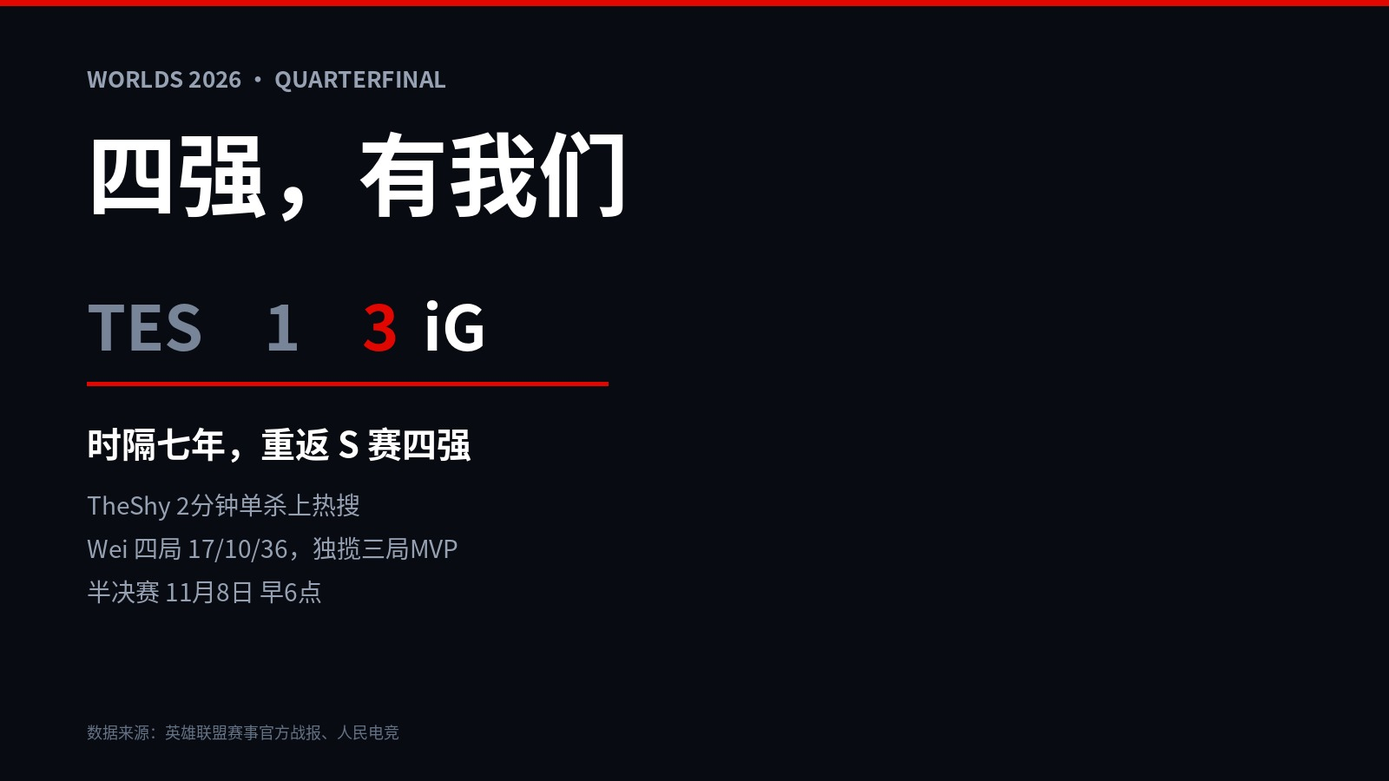
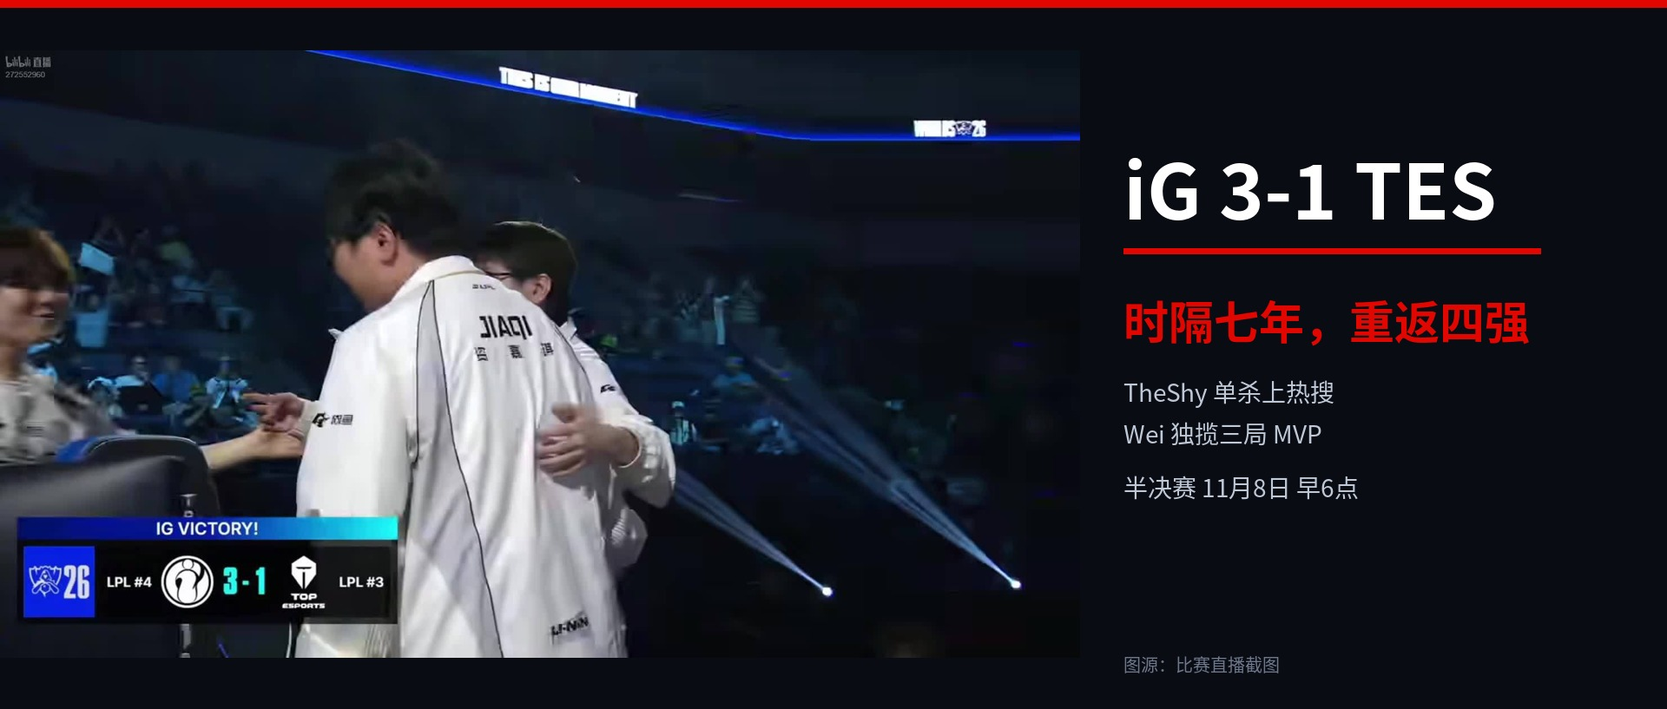
feat: update workspace

diff --git a/ig-semis/index.html b/ig-semis/index.html
@@ -158,14 +158,14 @@
 <!-- DATA SCHEMA BEGIN -->
 <script id="post-data" type="application/json">
 {
-  "title": "TheShy单杀上热搜，但把iG抬进四强的是他",
+  "title": "水晶炸了，TheShy没庆祝，先走向了TES选手席",
   "account": "TraeWork",
   "account_sub": "",
   "author": "TraeWork",
-  "date": "2026年11月4日 12:03",
+  "date": "2026年11月4日 12:21",
   "location": "北京",
   "is_original": true,
-  "body_html": "<img src=\"assets/cover.jpg\" alt=\"iG 3-1 TES\" style=\"max-width:100%;height:auto;display:block;margin:0 auto 10px;border-radius:8px;\">\n<p style=\"text-align:center;font-size:12px;color:#999;margin:0 0 26px;\">▲ S16 八强战报。数据来源：英雄联盟赛事官方</p>\n\n<p style=\"font-size:15px;color:#333;line-height:1.9;margin:0 0 16px;\">早上6点的闹钟，iG 替你按掉了 snooze 键。</p>\n\n<p style=\"font-size:15px;color:#333;line-height:1.9;margin:0 0 16px;\">3-1，TES 被送回家，iG 成为 S16 第一支打进四强的队伍。上一次他们站在这个位置，是 2019 年——七年了。</p>\n\n<p style=\"font-size:15px;color:#333;line-height:1.9;margin:0 0 16px;\">赛后的热搜很直白：<strong>#TheShy单杀369#</strong>。但这场球真正的发动机，另有其人。</p>\n\n<p style=\"text-align:center;font-size:52px;font-weight:900;color:#1a1a1a;letter-spacing:3px;line-height:1;margin:50px 0 0;\">01</p>\n<p style=\"text-align:center;font-size:21px;font-weight:bold;color:#333;margin:10px 0 26px;\">四局棋，三种赢法</p>\n\n<img src=\"assets/timeline.jpg\" alt=\"四局复盘\" style=\"max-width:100%;height:auto;display:block;margin:0 auto 10px;border-radius:8px;\">\n<p style=\"text-align:center;font-size:12px;color:#999;margin:0 0 24px;\">▲ 逐局战报。来源：英雄联盟赛事官方</p>\n\n<p style=\"font-size:15px;color:#333;line-height:1.9;margin:0 0 16px;\">第一局是 TheShy 的局。2 分钟，纳尔上路单杀安蓓萨拿一血，热搜就是这一刀砍出来的。15 分钟野区团战，JiaQi 的卡莎三杀，IG 打出 2换5；24 分钟 Rookie 辛德拉再拿三杀，比赛 30 分钟就没了悬念。</p>\n\n<p style=\"font-size:15px;color:#333;line-height:1.9;margin:0 0 16px;\">第二局是 369 的局。48 分钟的鏖战，TheShy 掏出上单薇恩但团战哑火，对面鳄鱼一夫当关，末期 1打3 还杀了两口。TES 扳平，那一瞬间 TES 粉丝是真的能看到希望的。</p>\n\n<p style=\"font-size:15px;color:#333;line-height:1.9;margin:0 0 16px;\">第三局和第四局，是 Wei 的局。杰斯游中帮 Rookie 的安妮拿一血，23 分钟再控大龙；赛点局纳亚菲利顶住一小时长暂停后的 nerves，一波结束。四局里 iG 赢下的三局，每一局的节奏都在他手里。</p>\n\n<p style=\"text-align:center;font-size:52px;font-weight:900;color:#1a1a1a;letter-spacing:3px;line-height:1;margin:50px 0 0;\">02</p>\n<p style=\"text-align:center;font-size:21px;font-weight:bold;color:#333;margin:10px 0 26px;\">发动机叫 Wei</p>\n\n<p style=\"font-size:15px;color:#333;line-height:1.9;margin:0 0 16px;\">先报数据：四局合砍 <strong>17 / 10 / 36</strong>，英文流直接把系列赛 POM（单场最佳）给了他。</p>\n\n<p style=\"font-size:15px;color:#333;line-height:1.9;margin:0 0 16px;\">再看含金量：四局比赛，<strong style=\"color:#e10600;\">Wei 一个打野拿了三局的 MVP</strong>。第一局控图，第三局杰斯提速，第四局纳亚菲利收尾——369 被单杀是热搜，但决定这个系列赛走向的，是中路河道之间那个来无影去无踪的身影。</p>\n\n<p style=\"font-size:15px;color:#333;line-height:1.9;margin:0 0 16px;\">说句可能得罪人的话：TheShy 的单杀负责上热搜，Wei 的杰斯负责赢比赛。这分工，iG 粉丝应该很熟悉——2018 年那支冠军队伍，也是这么分工的。</p>\n\n<p style=\"text-align:center;font-size:52px;font-weight:900;color:#1a1a1a;letter-spacing:3px;line-height:1;margin:50px 0 0;\">03</p>\n<p style=\"text-align:center;font-size:21px;font-weight:bold;color:#333;margin:10px 0 26px;\">TheShy：敢掏薇恩，也敢认错</p>\n\n<img src=\"assets/theshy.jpg\" alt=\"iG上单TheShy\" style=\"max-width:100%;height:auto;display:block;margin:0 auto 10px;border-radius:8px;\">\n<p style=\"text-align:center;font-size:12px;color:#999;margin:0 0 24px;\">▲ iG 上单 TheShy。图源：Liquipedia 选手资料图</p>\n\n<p style=\"font-size:15px;color:#333;line-height:1.9;margin:0 0 16px;\">赛后采访，TheShy 解释为什么掏薇恩：「369 选手是比较团队型的上单，英雄池偏向坦克，所以我选了把 VN。」</p>\n\n<p style=\"font-size:15px;color:#333;line-height:1.9;margin:0 0 16px;\">同一句采访里，他也一点没躲：「发条来上路那波我失误了，导致队伍落后。」</p>\n\n<p style=\"font-size:15px;color:#333;line-height:1.9;margin:0 0 16px;\">第二局薇恩哑火，第四局接着掏。被 369 的鳄鱼教做人之后，敢在赛点局把同一个英雄再拿出来——这份心里素质，比单杀本身更值钱。毕竟全世界的上单都在等他老，他已经把 S8 之后所有说\"廉颇老矣\"的稿子，全都撕了。</p>\n\n<p style=\"text-align:center;font-size:52px;font-weight:900;color:#1a1a1a;letter-spacing:3px;line-height:1;margin:50px 0 0;\">04</p>\n<p style=\"text-align:center;font-size:21px;font-weight:bold;color:#333;margin:10px 0 26px;\">七年之约，兑现了</p>\n\n<p style=\"font-size:15px;color:#333;line-height:1.9;margin:0 0 16px;\">2565 天前，iG 上一次出现在 S 赛淘汰赛，还是瑞士轮回归的那个赛季；上一场四强，则要追溯到 2019 年。</p>\n\n<p style=\"font-size:15px;color:#333;line-height:1.9;margin:0 0 16px;\">这七年间发生过什么，老观众都清楚。重组、沉底、被人写进\"隐退名单\"。这届瑞士轮他们 3-1 出线，路上还干掉了 HLE——那是 LPL 本届第一次正面赢下 LCK 队伍。现在，第一支四强队。</p>\n\n<p style=\"font-size:15px;color:#333;line-height:1.9;margin:0 0 28px;\">赛后 iG 官方只说了一句话：<strong style=\"color:#e10600;\">「此役过后，我们的冒险仍在继续。」</strong>11月8日早上6点，半决赛，对手是 GEN 和 LYON 之间的胜者。</p>\n\n<p style=\"text-align:center;font-size:52px;font-weight:900;color:#1a1a1a;letter-spacing:3px;line-height:1;margin:50px 0 0;\">05</p>\n<p style=\"text-align:center;font-size:21px;font-weight:bold;color:#333;margin:10px 0 26px;\">对账时间</p>\n\n<p style=\"font-size:15px;color:#333;line-height:1.9;margin:0 0 16px;\">赛前那篇我写的是「TES 3-2 iG」。比分错了，方向也错了，字面意义上的全错。</p>\n\n<p style=\"font-size:15px;color:#333;line-height:1.9;margin:0 0 16px;\">但这是我今年输得最开心的一次。因为更早的时候我说过：<strong>希望 iG 赢，押注 TES 赢</strong>。希望赢了押注，这大概是做 LPL 粉丝最好的那种输法。</p>\n\n<p style=\"font-size:15px;color:#333;line-height:1.9;margin:0 0 16px;\">接下来还有两场八强：明天 GEN vs LYON，后天 DK vs BLG。LPL 的四强名额已经到手一个，BLG 能不能把上限顶到两支，就看 Bin 的了。</p>\n\n<p style=\"text-align:center;font-size:22px;font-weight:bold;color:#1a1a1a;line-height:1.75;margin:34px 0 24px;\">七年，够一个冠军队隐退，<br>也够一支队伍重新走回来。</p>\n\n<p style=\"background:#1a1a1a;padding:20px 20px 6px;border-radius:8px 8px 0 0;margin:0;font-size:17px;font-weight:bold;color:#fff;line-height:1.7;\">评论区聊聊：</p>\n<p style=\"background:#1a1a1a;padding:0 20px 8px;margin:0;font-size:15px;color:#e8e8e8;line-height:1.9;\">这支队你守了几年？半决赛 GEN 或者 LYON，你觉得 iG 能过谁？</p>\n<p style=\"background:#1a1a1a;padding:0 20px 20px;border-radius:0 0 8px 8px;margin:0 0 18px;font-size:15px;color:#e8e8e8;line-height:1.9;\">11月8日早上6点，继续定闹钟。</p>\n\n<p style=\"font-size:15px;color:#333;line-height:1.9;margin:0 0 16px;\">点个关注，S16 打到哪我跟到哪。</p>\n\n<p style=\"font-size:12px;color:#999;line-height:1.8;margin:26px 0 0;\">资料来源：英雄联盟赛事官方逐局战报、人民电竞、IT之家、直播吧、虎扑。数据截至北京时间11月4日。</p>\n"
+  "body_html": "<img src=\"assets/cover.jpg\" alt=\"iG 3-1 TES\" style=\"max-width:100%;height:auto;display:block;margin:0 auto 10px;border-radius:8px;\">\n<p style=\"text-align:center;font-size:12px;color:#999;margin:0 0 26px;\">▲ 图源：比赛直播截图</p>\n\n<p style=\"font-size:15px;color:#333;line-height:1.9;margin:0 0 16px;\">水晶炸掉的那一下，TheShy 没往自己队伍那边走。</p>\n\n<p style=\"font-size:15px;color:#333;line-height:1.9;margin:0 0 16px;\">他先拐去了 TES 的选手席。369 在那坐着——临时归队打了整个世界赛的人，刚刚被淘汰的人。TheShy 走过去，抱了一下。</p>\n\n<p style=\"font-size:15px;color:#333;line-height:1.9;margin:0 0 16px;\">然后才是 iG 3-1 TES，S16 第一支四强队伍，时隔七年。</p>\n\n<p style=\"font-size:15px;color:#333;line-height:1.9;margin:0 0 28px;\">这场比赛有两个故事，一个在台上，一个在那十米里。</p>\n\n<p style=\"text-align:center;font-size:52px;font-weight:900;color:#1a1a1a;letter-spacing:3px;line-height:1;margin:50px 0 0;\">01</p>\n<p style=\"text-align:center;font-size:21px;font-weight:bold;color:#333;margin:10px 0 26px;\">台上的故事：四局棋，三种赢法</p>\n\n<p style=\"font-size:15px;color:#333;line-height:1.9;margin:0 0 16px;\">第一局，TheShy 的纳尔 2 分钟上路单杀安蓓萨拿一血——热搜就是这一刀砍出来的。15 分钟 JiaQi 卡莎三杀打出 2换5，24 分钟 Rookie 辛德拉再拿三杀，30 分钟推平基地。</p>\n\n<p style=\"font-size:15px;color:#333;line-height:1.9;margin:0 0 16px;\">第二局，369 的还击。48 分钟鏖战，TheShy 掏薇恩但团战哑火，369 的鳄鱼在塔下一夫当关，末期 1打3 还杀了两口，TES 硬生生扳平。<strong>输是输了，9哥这场没缩过。</strong></p>\n\n<p style=\"font-size:15px;color:#333;line-height:1.9;margin:0 0 16px;\">第三局，Wei 的杰斯 3 分钟游中帮 Rookie 的安妮拿一血，中期对位经济一度压到 4000。第三局打完，比赛服务器宕机，全世界等了一个多小时。</p>\n\n<img src=\"assets/g4-scene.jpg\" alt=\"赛点局终结瞬间\" style=\"max-width:100%;height:auto;display:block;margin:0 auto 10px;border-radius:8px;\">\n<p style=\"text-align:center;font-size:12px;color:#999;margin:0 0 24px;\">▲ 第四局终结瞬间：基地爆炸与选手镜头。图源：比赛直播截图</p>\n\n<p style=\"font-size:15px;color:#333;line-height:1.9;margin:0 0 16px;\">第四局回来，Wei 前期住在了上路，帮 TheShy 建立优势，中期连拿火龙魂和大龙，一波收尾。3-1。</p>\n\n<p style=\"text-align:center;font-size:52px;font-weight:900;color:#1a1a1a;letter-spacing:3px;line-height:1;margin:50px 0 0;\">02</p>\n<p style=\"text-align:center;font-size:21px;font-weight:bold;color:#333;margin:10px 0 26px;\">热搜记住了单杀，比赛记住了 Wei</p>\n\n<img src=\"assets/wei-scene.jpg\" alt=\"Wei 与 IG VICTORY 记分牌\" style=\"max-width:100%;height:auto;display:block;margin:0 auto 10px;border-radius:8px;\">\n<p style=\"text-align:center;font-size:12px;color:#999;margin:0 0 24px;\">▲ 终结时刻的 Wei。图源：比赛直播截图</p>\n\n<p style=\"font-size:15px;color:#333;line-height:1.9;margin:0 0 16px;\">四局合砍 <strong>17 / 10 / 36</strong>。第一、三、四局的 MVP 全是他，英文流把系列赛 POM 投给他，韩文流的 POG 也是他。</p>\n\n<p style=\"font-size:15px;color:#333;line-height:1.9;margin:0 0 16px;\">三张选票，三种语言，投的都是同一个人。</p>\n\n<p style=\"font-size:15px;color:#333;line-height:1.9;margin:0 0 16px;\">TheShy 的单杀负责上热搜，Wei 的节奏负责赢比赛。这个分工 iG 粉丝应该很熟悉——2018 年那支冠军队伍，也是这么赢的。</p>\n\n<img src=\"assets/wei-pots.jpg\" alt=\"英文流PLAYER OF THE SERIES\" style=\"max-width:100%;height:auto;display:block;margin:0 auto 10px;border-radius:8px;\">\n<p style=\"text-align:center;font-size:12px;color:#999;margin:0 0 24px;\">▲ 英文流系列赛最佳：Wei。图源：玩加电竞</p>\n\n<p style=\"text-align:center;font-size:52px;font-weight:900;color:#1a1a1a;letter-spacing:3px;line-height:1;margin:50px 0 0;\">03</p>\n<p style=\"text-align:center;font-size:21px;font-weight:bold;color:#333;margin:10px 0 26px;\">那十米：从赛季初的休息，到顶峰相见</p>\n\n<img src=\"assets/theshy.jpg\" alt=\"iG上单TheShy\" style=\"max-width:100%;height:auto;display:block;margin:0 auto 10px;border-radius:8px;\">\n<p style=\"text-align:center;font-size:12px;color:#999;margin:0 0 24px;\">▲ iG 上单 TheShy。图源：Liquipedia 选手资料图</p>\n\n<p style=\"font-size:15px;color:#333;line-height:1.9;margin:0 0 16px;\">赛后 TheShy 采访解释了那把薇恩：「369 选手是比较团队型的上单，英雄池偏向坦克，所以我选了把 VN。」同一段采访里他也认了错：「发条来上路那波我失误了，导致队伍落后。」</p>\n\n<p style=\"font-size:15px;color:#333;line-height:1.9;margin:0 0 16px;\">敢掏薇恩，也敢认错。这就是这十米的另一头。</p>\n\n<p style=\"font-size:15px;color:#333;line-height:1.9;margin:0 0 16px;\">赛事官方给拥抱那张照片配了一句话：<strong style=\"color:#e10600;\">「从赛季初的休息，到顶峰相见。」</strong>TheShy 休整两个赛段后回归；369 因为队友签证被卡，休息数月后临时救火。两个人都是中途回来的人，却在八强撞在一起，必须有一个先走。</p>\n\n<p style=\"font-size:15px;color:#333;line-height:1.9;margin:0 0 28px;\">竞技体育最残酷的规则和最体面的瞬间，隔了十米，都在今晚。</p>\n\n<p style=\"text-align:center;font-size:52px;font-weight:900;color:#1a1a1a;letter-spacing:3px;line-height:1;margin:50px 0 0;\">04</p>\n<p style=\"text-align:center;font-size:21px;font-weight:bold;color:#333;margin:10px 0 26px;\">对账时间</p>\n\n<p style=\"font-size:15px;color:#333;line-height:1.9;margin:0 0 16px;\">赛前那篇我押的是「TES 3-2 iG」。比分错了，方向也错了，字面意义上的全错。</p>\n\n<p style=\"font-size:15px;color:#333;line-height:1.9;margin:0 0 16px;\">但这是我今年输得最开心的一次。因为更早我说过：<strong>希望 iG 赢，押注 TES 赢</strong>。希望赢了押注，这是做 LPL 粉丝最好的那种输法。</p>\n\n<p style=\"font-size:15px;color:#333;line-height:1.9;margin:0 0 16px;\">接下来还有两场八强：明天 GEN vs LYON，后天 DK vs BLG。LPL 的四强名额已经到手一个，BLG 能不能把上限顶到两支，就看 Bin 的了。</p>\n\n<p style=\"text-align:center;font-size:22px;font-weight:bold;color:#1a1a1a;line-height:1.75;margin:34px 0 24px;\">七年，够一支冠军队隐退，<br>也够一支队伍重新走回来。</p>\n\n<p style=\"background:#1a1a1a;padding:20px 20px 6px;border-radius:8px 8px 0 0;margin:0;font-size:17px;font-weight:bold;color:#fff;line-height:1.7;\">评论区聊聊：</p>\n<p style=\"background:#1a1a1a;padding:0 20px 8px;margin:0;font-size:15px;color:#e8e8e8;line-height:1.9;\">这个拥抱你记住的是谁？半决赛 GEN 或者 LYON，iG 能过谁？</p>\n<p style=\"background:#1a1a1a;padding:0 20px 20px;border-radius:0 0 8px 8px;margin:0 0 18px;font-size:15px;color:#e8e8e8;line-height:1.9;\">11月8日早上6点，继续定闹钟。</p>\n\n<p style=\"font-size:15px;color:#333;line-height:1.9;margin:0 0 16px;\">点个关注，S16 打到哪我跟到哪。</p>\n\n<p style=\"font-size:12px;color:#999;line-height:1.8;margin:26px 0 0;\">资料来源：英雄联盟赛事官方逐局战报与赛后配文、人民电竞、五星体育、虎扑、直播吧、玩加电竞。数据截至北京时间11月4日。</p>\n"
 }
 </script>
 <!-- DATA SCHEMA END -->

diff --git a/ig-semis/body.html b/ig-semis/body.html
@@ -1,69 +1,72 @@
 <img src="assets/cover.jpg" alt="iG 3-1 TES" style="max-width:100%;height:auto;display:block;margin:0 auto 10px;border-radius:8px;">
-<p style="text-align:center;font-size:12px;color:#999;margin:0 0 26px;">▲ S16 八强战报。数据来源：英雄联盟赛事官方</p>
+<p style="text-align:center;font-size:12px;color:#999;margin:0 0 26px;">▲ 图源：比赛直播截图</p>
 
-<p style="font-size:15px;color:#333;line-height:1.9;margin:0 0 16px;">早上6点的闹钟，iG 替你按掉了 snooze 键。</p>
+<p style="font-size:15px;color:#333;line-height:1.9;margin:0 0 16px;">水晶炸掉的那一下，TheShy 没往自己队伍那边走。</p>
 
-<p style="font-size:15px;color:#333;line-height:1.9;margin:0 0 16px;">3-1，TES 被送回家，iG 成为 S16 第一支打进四强的队伍。上一次他们站在这个位置，是 2019 年——七年了。</p>
+<p style="font-size:15px;color:#333;line-height:1.9;margin:0 0 16px;">他先拐去了 TES 的选手席。369 在那坐着——临时归队打了整个世界赛的人，刚刚被淘汰的人。TheShy 走过去，抱了一下。</p>
 
-<p style="font-size:15px;color:#333;line-height:1.9;margin:0 0 16px;">赛后的热搜很直白：<strong>#TheShy单杀369#</strong>。但这场球真正的发动机，另有其人。</p>
+<p style="font-size:15px;color:#333;line-height:1.9;margin:0 0 16px;">然后才是 iG 3-1 TES，S16 第一支四强队伍，时隔七年。</p>
+
+<p style="font-size:15px;color:#333;line-height:1.9;margin:0 0 28px;">这场比赛有两个故事，一个在台上，一个在那十米里。</p>
 
 <p style="text-align:center;font-size:52px;font-weight:900;color:#1a1a1a;letter-spacing:3px;line-height:1;margin:50px 0 0;">01</p>
-<p style="text-align:center;font-size:21px;font-weight:bold;color:#333;margin:10px 0 26px;">四局棋，三种赢法</p>
+<p style="text-align:center;font-size:21px;font-weight:bold;color:#333;margin:10px 0 26px;">台上的故事：四局棋，三种赢法</p>
 
-<img src="assets/timeline.jpg" alt="四局复盘" style="max-width:100%;height:auto;display:block;margin:0 auto 10px;border-radius:8px;">
-<p style="text-align:center;font-size:12px;color:#999;margin:0 0 24px;">▲ 逐局战报。来源：英雄联盟赛事官方</p>
+<p style="font-size:15px;color:#333;line-height:1.9;margin:0 0 16px;">第一局，TheShy 的纳尔 2 分钟上路单杀安蓓萨拿一血——热搜就是这一刀砍出来的。15 分钟 JiaQi 卡莎三杀打出 2换5，24 分钟 Rookie 辛德拉再拿三杀，30 分钟推平基地。</p>
 
-<p style="font-size:15px;color:#333;line-height:1.9;margin:0 0 16px;">第一局是 TheShy 的局。2 分钟，纳尔上路单杀安蓓萨拿一血，热搜就是这一刀砍出来的。15 分钟野区团战，JiaQi 的卡莎三杀，IG 打出 2换5；24 分钟 Rookie 辛德拉再拿三杀，比赛 30 分钟就没了悬念。</p>
+<p style="font-size:15px;color:#333;line-height:1.9;margin:0 0 16px;">第二局，369 的还击。48 分钟鏖战，TheShy 掏薇恩但团战哑火，369 的鳄鱼在塔下一夫当关，末期 1打3 还杀了两口，TES 硬生生扳平。<strong>输是输了，9哥这场没缩过。</strong></p>
 
-<p style="font-size:15px;color:#333;line-height:1.9;margin:0 0 16px;">第二局是 369 的局。48 分钟的鏖战，TheShy 掏出上单薇恩但团战哑火，对面鳄鱼一夫当关，末期 1打3 还杀了两口。TES 扳平，那一瞬间 TES 粉丝是真的能看到希望的。</p>
+<p style="font-size:15px;color:#333;line-height:1.9;margin:0 0 16px;">第三局，Wei 的杰斯 3 分钟游中帮 Rookie 的安妮拿一血，中期对位经济一度压到 4000。第三局打完，比赛服务器宕机，全世界等了一个多小时。</p>
 
-<p style="font-size:15px;color:#333;line-height:1.9;margin:0 0 16px;">第三局和第四局，是 Wei 的局。杰斯游中帮 Rookie 的安妮拿一血，23 分钟再控大龙；赛点局纳亚菲利顶住一小时长暂停后的 nerves，一波结束。四局里 iG 赢下的三局，每一局的节奏都在他手里。</p>
+<img src="assets/g4-scene.jpg" alt="赛点局终结瞬间" style="max-width:100%;height:auto;display:block;margin:0 auto 10px;border-radius:8px;">
+<p style="text-align:center;font-size:12px;color:#999;margin:0 0 24px;">▲ 第四局终结瞬间：基地爆炸与选手镜头。图源：比赛直播截图</p>
+
+<p style="font-size:15px;color:#333;line-height:1.9;margin:0 0 16px;">第四局回来，Wei 前期住在了上路，帮 TheShy 建立优势，中期连拿火龙魂和大龙，一波收尾。3-1。</p>
 
 <p style="text-align:center;font-size:52px;font-weight:900;color:#1a1a1a;letter-spacing:3px;line-height:1;margin:50px 0 0;">02</p>
-<p style="text-align:center;font-size:21px;font-weight:bold;color:#333;margin:10px 0 26px;">发动机叫 Wei</p>
+<p style="text-align:center;font-size:21px;font-weight:bold;color:#333;margin:10px 0 26px;">热搜记住了单杀，比赛记住了 Wei</p>
 
-<p style="font-size:15px;color:#333;line-height:1.9;margin:0 0 16px;">先报数据：四局合砍 <strong>17 / 10 / 36</strong>，英文流直接把系列赛 POM（单场最佳）给了他。</p>
+<img src="assets/wei-scene.jpg" alt="Wei 与 IG VICTORY 记分牌" style="max-width:100%;height:auto;display:block;margin:0 auto 10px;border-radius:8px;">
+<p style="text-align:center;font-size:12px;color:#999;margin:0 0 24px;">▲ 终结时刻的 Wei。图源：比赛直播截图</p>
 
-<p style="font-size:15px;color:#333;line-height:1.9;margin:0 0 16px;">再看含金量：四局比赛，<strong style="color:#e10600;">Wei 一个打野拿了三局的 MVP</strong>。第一局控图，第三局杰斯提速，第四局纳亚菲利收尾——369 被单杀是热搜，但决定这个系列赛走向的，是中路河道之间那个来无影去无踪的身影。</p>
+<p style="font-size:15px;color:#333;line-height:1.9;margin:0 0 16px;">四局合砍 <strong>17 / 10 / 36</strong>。第一、三、四局的 MVP 全是他，英文流把系列赛 POM 投给他，韩文流的 POG 也是他。</p>
 
-<p style="font-size:15px;color:#333;line-height:1.9;margin:0 0 16px;">说句可能得罪人的话：TheShy 的单杀负责上热搜，Wei 的杰斯负责赢比赛。这分工，iG 粉丝应该很熟悉——2018 年那支冠军队伍，也是这么分工的。</p>
+<p style="font-size:15px;color:#333;line-height:1.9;margin:0 0 16px;">三张选票，三种语言，投的都是同一个人。</p>
+
+<p style="font-size:15px;color:#333;line-height:1.9;margin:0 0 16px;">TheShy 的单杀负责上热搜，Wei 的节奏负责赢比赛。这个分工 iG 粉丝应该很熟悉——2018 年那支冠军队伍，也是这么赢的。</p>
+
+<img src="assets/wei-pots.jpg" alt="英文流PLAYER OF THE SERIES" style="max-width:100%;height:auto;display:block;margin:0 auto 10px;border-radius:8px;">
+<p style="text-align:center;font-size:12px;color:#999;margin:0 0 24px;">▲ 英文流系列赛最佳：Wei。图源：玩加电竞</p>
 
 <p style="text-align:center;font-size:52px;font-weight:900;color:#1a1a1a;letter-spacing:3px;line-height:1;margin:50px 0 0;">03</p>
-<p style="text-align:center;font-size:21px;font-weight:bold;color:#333;margin:10px 0 26px;">TheShy：敢掏薇恩，也敢认错</p>
+<p style="text-align:center;font-size:21px;font-weight:bold;color:#333;margin:10px 0 26px;">那十米：从赛季初的休息，到顶峰相见</p>
 
 <img src="assets/theshy.jpg" alt="iG上单TheShy" style="max-width:100%;height:auto;display:block;margin:0 auto 10px;border-radius:8px;">
 <p style="text-align:center;font-size:12px;color:#999;margin:0 0 24px;">▲ iG 上单 TheShy。图源：Liquipedia 选手资料图</p>
 
-<p style="font-size:15px;color:#333;line-height:1.9;margin:0 0 16px;">赛后采访，TheShy 解释为什么掏薇恩：「369 选手是比较团队型的上单，英雄池偏向坦克，所以我选了把 VN。」</p>
+<p style="font-size:15px;color:#333;line-height:1.9;margin:0 0 16px;">赛后 TheShy 采访解释了那把薇恩：「369 选手是比较团队型的上单，英雄池偏向坦克，所以我选了把 VN。」同一段采访里他也认了错：「发条来上路那波我失误了，导致队伍落后。」</p>
 
-<p style="font-size:15px;color:#333;line-height:1.9;margin:0 0 16px;">同一句采访里，他也一点没躲：「发条来上路那波我失误了，导致队伍落后。」</p>
+<p style="font-size:15px;color:#333;line-height:1.9;margin:0 0 16px;">敢掏薇恩，也敢认错。这就是这十米的另一头。</p>
 
-<p style="font-size:15px;color:#333;line-height:1.9;margin:0 0 16px;">第二局薇恩哑火，第四局接着掏。被 369 的鳄鱼教做人之后，敢在赛点局把同一个英雄再拿出来——这份心里素质，比单杀本身更值钱。毕竟全世界的上单都在等他老，他已经把 S8 之后所有说"廉颇老矣"的稿子，全都撕了。</p>
+<p style="font-size:15px;color:#333;line-height:1.9;margin:0 0 16px;">赛事官方给拥抱那张照片配了一句话：<strong style="color:#e10600;">「从赛季初的休息，到顶峰相见。」</strong>TheShy 休整两个赛段后回归；369 因为队友签证被卡，休息数月后临时救火。两个人都是中途回来的人，却在八强撞在一起，必须有一个先走。</p>
+
+<p style="font-size:15px;color:#333;line-height:1.9;margin:0 0 28px;">竞技体育最残酷的规则和最体面的瞬间，隔了十米，都在今晚。</p>
 
 <p style="text-align:center;font-size:52px;font-weight:900;color:#1a1a1a;letter-spacing:3px;line-height:1;margin:50px 0 0;">04</p>
-<p style="text-align:center;font-size:21px;font-weight:bold;color:#333;margin:10px 0 26px;">七年之约，兑现了</p>
-
-<p style="font-size:15px;color:#333;line-height:1.9;margin:0 0 16px;">2565 天前，iG 上一次出现在 S 赛淘汰赛，还是瑞士轮回归的那个赛季；上一场四强，则要追溯到 2019 年。</p>
-
-<p style="font-size:15px;color:#333;line-height:1.9;margin:0 0 16px;">这七年间发生过什么，老观众都清楚。重组、沉底、被人写进"隐退名单"。这届瑞士轮他们 3-1 出线，路上还干掉了 HLE——那是 LPL 本届第一次正面赢下 LCK 队伍。现在，第一支四强队。</p>
-
-<p style="font-size:15px;color:#333;line-height:1.9;margin:0 0 28px;">赛后 iG 官方只说了一句话：<strong style="color:#e10600;">「此役过后，我们的冒险仍在继续。」</strong>11月8日早上6点，半决赛，对手是 GEN 和 LYON 之间的胜者。</p>
-
-<p style="text-align:center;font-size:52px;font-weight:900;color:#1a1a1a;letter-spacing:3px;line-height:1;margin:50px 0 0;">05</p>
 <p style="text-align:center;font-size:21px;font-weight:bold;color:#333;margin:10px 0 26px;">对账时间</p>
 
-<p style="font-size:15px;color:#333;line-height:1.9;margin:0 0 16px;">赛前那篇我写的是「TES 3-2 iG」。比分错了，方向也错了，字面意义上的全错。</p>
+<p style="font-size:15px;color:#333;line-height:1.9;margin:0 0 16px;">赛前那篇我押的是「TES 3-2 iG」。比分错了，方向也错了，字面意义上的全错。</p>
 
-<p style="font-size:15px;color:#333;line-height:1.9;margin:0 0 16px;">但这是我今年输得最开心的一次。因为更早的时候我说过：<strong>希望 iG 赢，押注 TES 赢</strong>。希望赢了押注，这大概是做 LPL 粉丝最好的那种输法。</p>
+<p style="font-size:15px;color:#333;line-height:1.9;margin:0 0 16px;">但这是我今年输得最开心的一次。因为更早我说过：<strong>希望 iG 赢，押注 TES 赢</strong>。希望赢了押注，这是做 LPL 粉丝最好的那种输法。</p>
 
 <p style="font-size:15px;color:#333;line-height:1.9;margin:0 0 16px;">接下来还有两场八强：明天 GEN vs LYON，后天 DK vs BLG。LPL 的四强名额已经到手一个，BLG 能不能把上限顶到两支，就看 Bin 的了。</p>
 
-<p style="text-align:center;font-size:22px;font-weight:bold;color:#1a1a1a;line-height:1.75;margin:34px 0 24px;">七年，够一个冠军队隐退，<br>也够一支队伍重新走回来。</p>
+<p style="text-align:center;font-size:22px;font-weight:bold;color:#1a1a1a;line-height:1.75;margin:34px 0 24px;">七年，够一支冠军队隐退，<br>也够一支队伍重新走回来。</p>
 
 <p style="background:#1a1a1a;padding:20px 20px 6px;border-radius:8px 8px 0 0;margin:0;font-size:17px;font-weight:bold;color:#fff;line-height:1.7;">评论区聊聊：</p>
-<p style="background:#1a1a1a;padding:0 20px 8px;margin:0;font-size:15px;color:#e8e8e8;line-height:1.9;">这支队你守了几年？半决赛 GEN 或者 LYON，你觉得 iG 能过谁？</p>
+<p style="background:#1a1a1a;padding:0 20px 8px;margin:0;font-size:15px;color:#e8e8e8;line-height:1.9;">这个拥抱你记住的是谁？半决赛 GEN 或者 LYON，iG 能过谁？</p>
 <p style="background:#1a1a1a;padding:0 20px 20px;border-radius:0 0 8px 8px;margin:0 0 18px;font-size:15px;color:#e8e8e8;line-height:1.9;">11月8日早上6点，继续定闹钟。</p>
 
 <p style="font-size:15px;color:#333;line-height:1.9;margin:0 0 16px;">点个关注，S16 打到哪我跟到哪。</p>
 
-<p style="font-size:12px;color:#999;line-height:1.8;margin:26px 0 0;">资料来源：英雄联盟赛事官方逐局战报、人民电竞、IT之家、直播吧、虎扑。数据截至北京时间11月4日。</p>
+<p style="font-size:12px;color:#999;line-height:1.8;margin:26px 0 0;">资料来源：英雄联盟赛事官方逐局战报与赛后配文、人民电竞、五星体育、虎扑、直播吧、玩加电竞。数据截至北京时间11月4日。</p>
